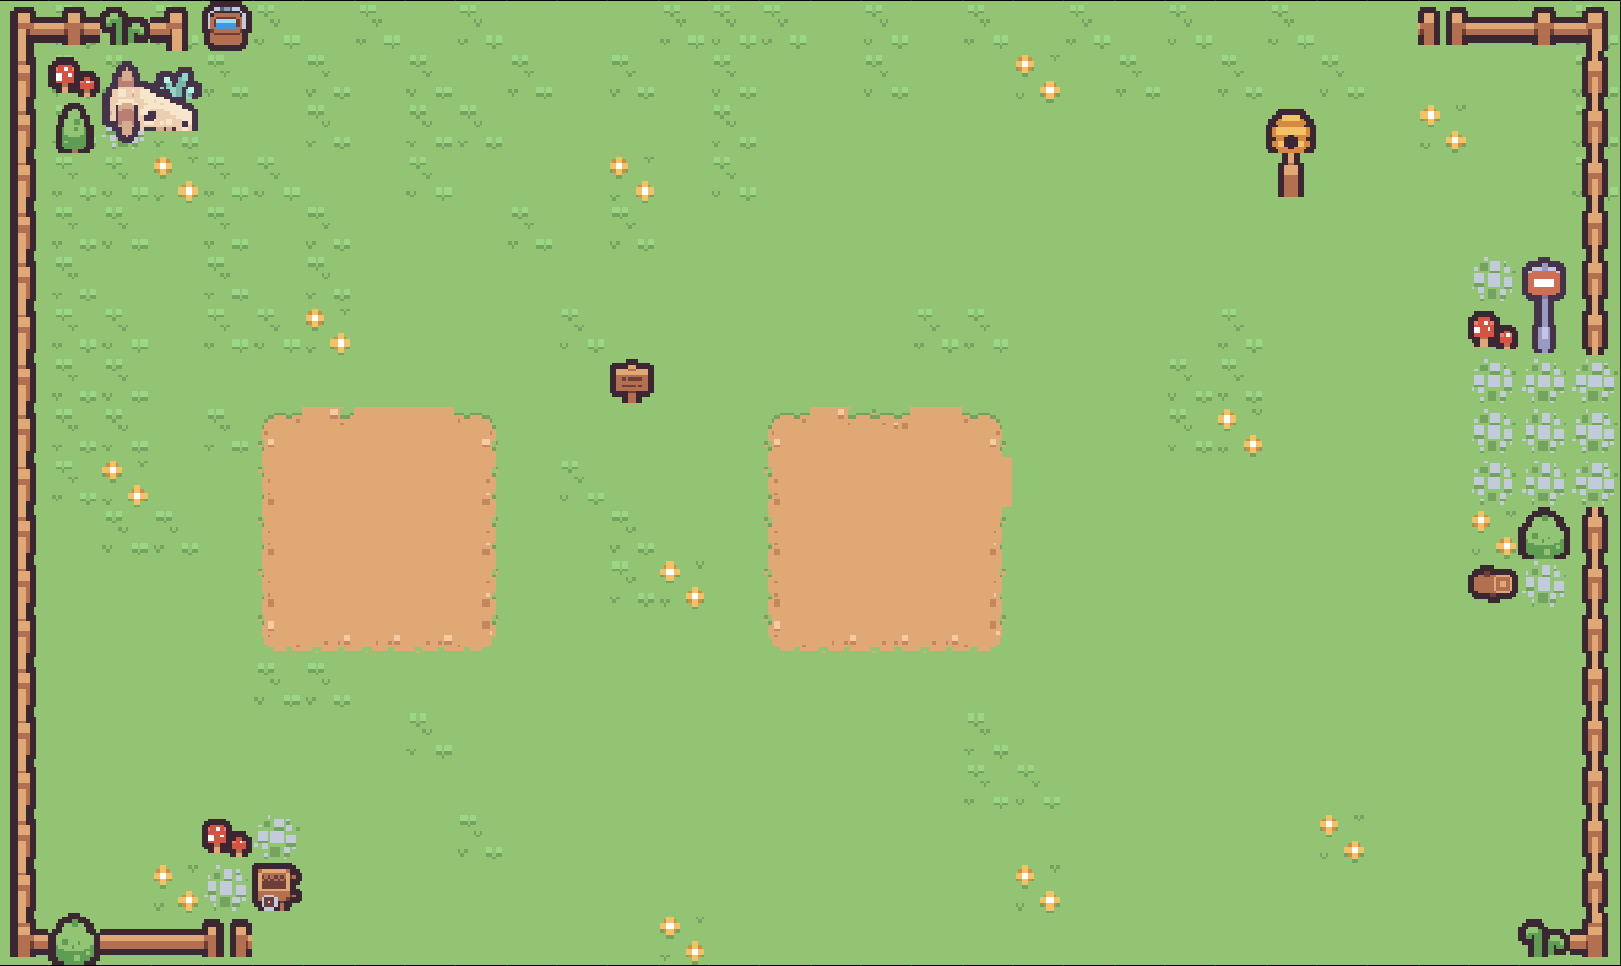
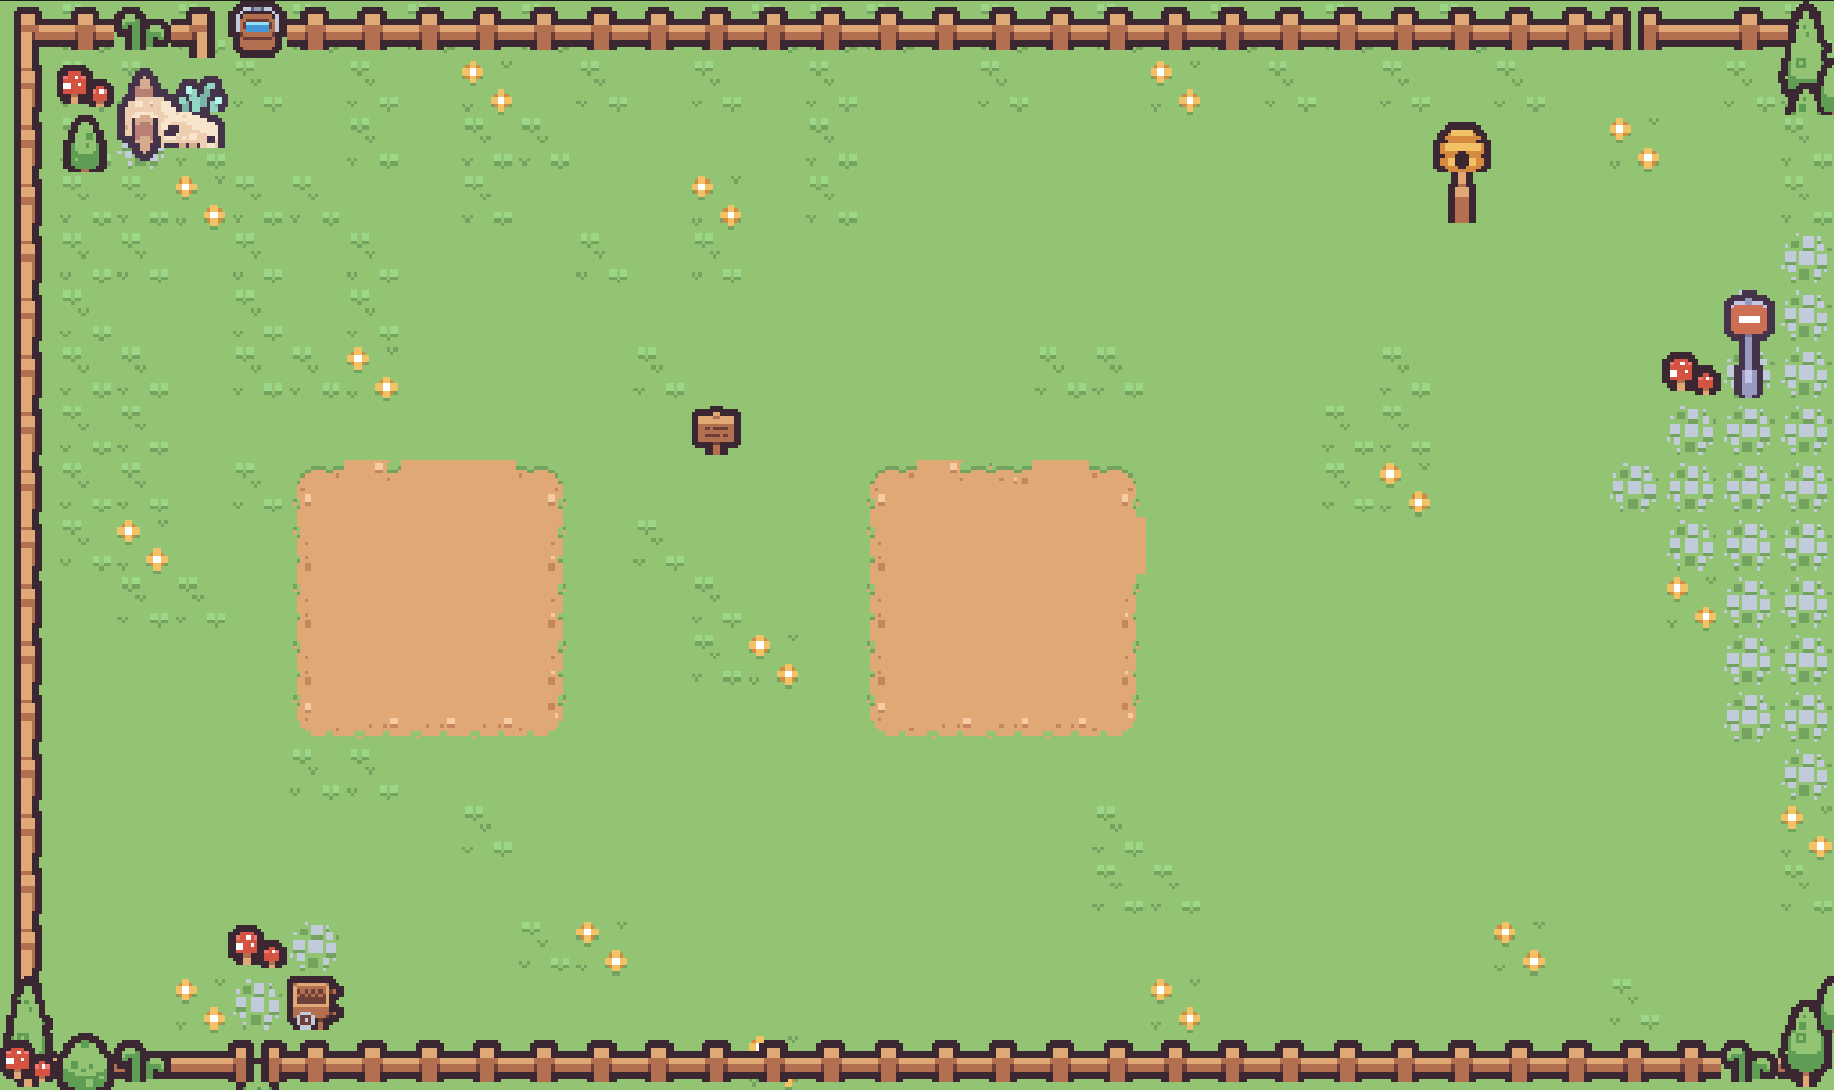
+ new level
made a separate file because teleporter

diff --git a/Meowijuana/NewDungeon.cpp b/Meowijuana/NewDungeon.cpp
@@ -7,7 +7,7 @@
 #include "NewDungeon.hpp"
 
 
-World::worldGrid newGrid;
+extern World::worldGrid grid;
 std::pair<int, int> activeGridTile;
 AEGfxTexture* bgDungeon = nullptr;
 
@@ -15,34 +15,15 @@ void NewDungeon_Load() {
 	SpriteManager::init();
 
 
-	//// Load the sprite sheet
-	//if (!SpriteManager::getSpriteSheet("dungeon")) {
-
-	//	std::cout << "loading file...";
-	//	SpriteManager::loadSpriteSheet("dungeon", "Assets/DUNGEON/Tilemap/tilemap_packed.png", 192.0f, 176.0f, 16.0f, 16.0f);
-	//}
-
-
 	//// although it does look better smaller :(
-	newGrid.initGrid(AEGfxGetWindowWidth(), AEGfxGetWindowHeight(), 50);
-	newGrid.initTextureBox();
-	//newGrid.initMapTextureSprite("Assets/DungeonTileData.txt");
+	grid.initGrid(AEGfxGetWindowWidth(), AEGfxGetWindowHeight(), 50);
+	grid.initTextureBox();
+	//grid.initMapTextureSprite("Assets/DungeonTileData.txt");
 
 
 	// this one is?? okay-ish????
-	//bgDungeon = AEGfxTextureLoad("Assets/LevelMaps/NewDungeons/Backgrounds/NewDungeon.png");
-	//newGrid.fillGrid("Assets/LevelMaps/NewDungeons/BackgroundCollisions/Dungeon.txt");
-
-
-	// this whole collision map is cooked bruh
-	//bgDungeon = AEGfxTextureLoad("Assets/LevelMaps/NewDungeons/Backgrounds/Desert.png");
-	//newGrid.fillGrid("Assets/LevelMaps/NewDungeons/BackgroundCollisions/Desert.txt");
-
-
-
-	// sign has no collision, but that's also because collision box kinda wonky, half block sign, half block nothing
-	bgDungeon = AEGfxTextureLoad("Assets/LevelMaps/NewDungeons/Backgrounds/Farm.png");
-	newGrid.fillGrid("Assets/LevelMaps/NewDungeons/BackgroundCollisions/Farm.txt");
+	bgDungeon = AEGfxTextureLoad("Assets/LevelMaps/NewDungeons/Backgrounds/NewDungeon.png");
+	grid.fillGrid("Assets/LevelMaps/NewDungeons/BackgroundCollisions/Dungeon.txt");
 }
 
 void NewDungeon_Initialize() {
@@ -53,22 +34,25 @@ void NewDungeon_Initialize() {
 
 void NewDungeon_Update() {
 	auto* player = EntityManager::getPlayer("player");
-	player->update(newGrid);
+	player->update(grid);
 	
+
+	grid.replacingID(World::Teleporter1, World::TeleporterBlue);
+	World::standOnTile(next, *player, grid, GS_TUTDUN, World::TeleporterBlue);
 
 }
 
 void NewDungeon_Draw() {
 	Graphics::image(0, 0, AEGfxGetWindowWidth(), AEGfxGetWindowHeight(), bgDungeon, Shapes::CENTER);
-	newGrid.drawTexture(newGrid);
-	World::drawTile(activeGridTile, newGrid);
-	World::drawTile({ 0,0 }, newGrid);
+	grid.drawTexture(grid);
+	World::drawTile(activeGridTile, grid);
+	World::drawTile({ 0,0 }, grid);
 
 	EntityManager::draw("player");
 }
 
 void NewDungeon_Free() {
-	newGrid.unloadMapTexture();
+	grid.unloadMapTexture();
 	World::freeGrid();
 }
 

diff --git a/Meowijuana/DesertDungeon.cpp b/Meowijuana/DesertDungeon.cpp
@@ -1,0 +1,62 @@
+#include "../../pch.h"
+#include "../../GameStateManager.hpp"
+#include "../../Graphics.hpp"
+#include "../../Managers/SpriteManager.hpp"
+#include "../../Managers/EntityManager.hpp"
+#include "World.hpp"
+#include "NewDungeon.hpp"
+
+
+
+extern World::worldGrid grid;
+std::pair<int, int> desertGridTile;
+AEGfxTexture* desertDungeon = nullptr;
+
+void DesertDungeon_Load() {
+	SpriteManager::init();
+
+
+	//// although it does look better smaller :(
+	grid.initGrid(AEGfxGetWindowWidth(), AEGfxGetWindowHeight(), 50);
+	grid.initTextureBox();
+	//grid.initMapTextureSprite("Assets/DungeonTileData.txt");
+
+
+	// this one is?? okay-ish????
+	desertDungeon = AEGfxTextureLoad("Assets/LevelMaps/NewDungeons/Backgrounds/Desert.png");
+	grid.fillGrid("Assets/LevelMaps/NewDungeons/BackgroundCollisions/Desert.txt");
+
+}
+
+void DesertDungeon_Initialize() {
+
+	EntityManager::init();
+
+}
+
+void DesertDungeon_Update() {
+	auto* player = EntityManager::getPlayer("player");
+	player->update(grid);
+
+
+}
+
+void DesertDungeon_Draw() {
+	Graphics::image(0, 0, AEGfxGetWindowWidth(), AEGfxGetWindowHeight(), desertDungeon, Shapes::CENTER);
+	grid.drawTexture(grid);
+	World::drawTile(desertGridTile, grid);
+
+	EntityManager::draw("player");
+}
+
+void DesertDungeon_Free() {
+	grid.unloadMapTexture();
+	World::freeGrid();
+}
+
+void DesertDungeon_Unload() {
+	AEGfxTextureUnload(desertDungeon);
+	desertDungeon = nullptr;
+}
+
+

diff --git a/Meowijuana/Screens/Testing/testing-xuan.cpp b/Meowijuana/Screens/Testing/testing-xuan.cpp
@@ -50,7 +50,6 @@ void Xuan_Load() {
 
 	grid.initGrid(AEGfxGetWindowWidth(), AEGfxGetWindowHeight(), 50);
 	grid.initTextureBox();
-	grid.initMapTexture();
 
 	respawnDungeon = AEGfxTextureLoad("Assets/LevelMaps/NewDungeons/Backgrounds/Respawn.png");
 	grid.fillGrid("Assets/LevelMaps/NewDungeons/BackgroundCollisions/Respawn.txt");
@@ -309,8 +308,10 @@ void Xuan_Draw() {
 	//Color::background(Color::Preset::White);
 	//Color::fill(Color::Preset::Blue);
 
-	Graphics::image(0, 0, AEGfxGetWindowWidth(), AEGfxGetWindowHeight(), respawnDungeon, Shapes::CENTER);
+	/*TileManager::draw();*/
+
 	grid.drawTexture(grid);
+	Graphics::image(0, 0, AEGfxGetWindowWidth(), AEGfxGetWindowHeight(), respawnDungeon, Shapes::CENTER);
 	World::drawTile(activeTile2, grid);
 
 	EntityManager::draw("smelly");

diff --git a/Meowijuana/Screens/FarmScreen.cpp b/Meowijuana/Screens/FarmScreen.cpp
@@ -247,6 +247,12 @@ void Farm_Update() {
 		World::standOnTile(next, *player, grid, GS_X, World::TeleporterRed);
 	}
 
+
+	if (player->getX() > (AEGfxGetWindowWidth()/2)) {
+		next = GS_X;
+
+	}
+
 	// NPC TALKING STUFFS
 
 	if (FarmNPC::dialogueBox.getIsActive() && FarmNPC::activeSpeaker) {

diff --git a/Meowijuana/DesertDungeon.hpp b/Meowijuana/DesertDungeon.hpp
@@ -1,0 +1,12 @@
+#ifndef DESERT_DUNGEON_HPP
+#define DESERT_DUNGEON_HPP
+
+void DesertDungeon_Load();
+void DesertDungeon_Initialize();
+void DesertDungeon_Update();
+void DesertDungeon_Draw();
+void DesertDungeon_Free();
+void DesertDungeon_Unload();
+
+
+#endif //DESERT_DUNGEON_HPP
